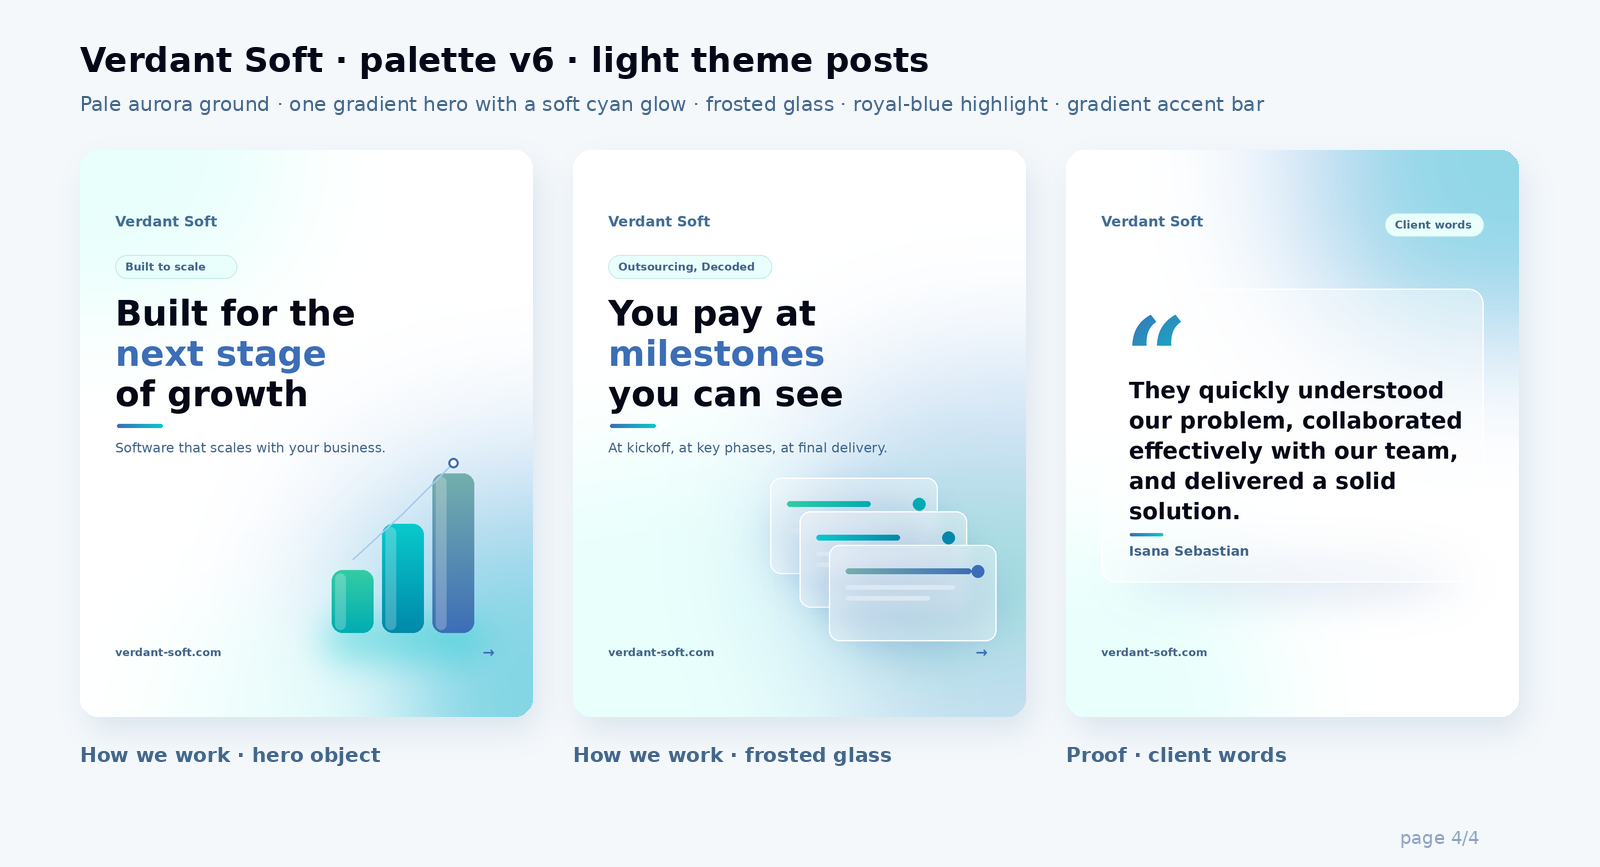
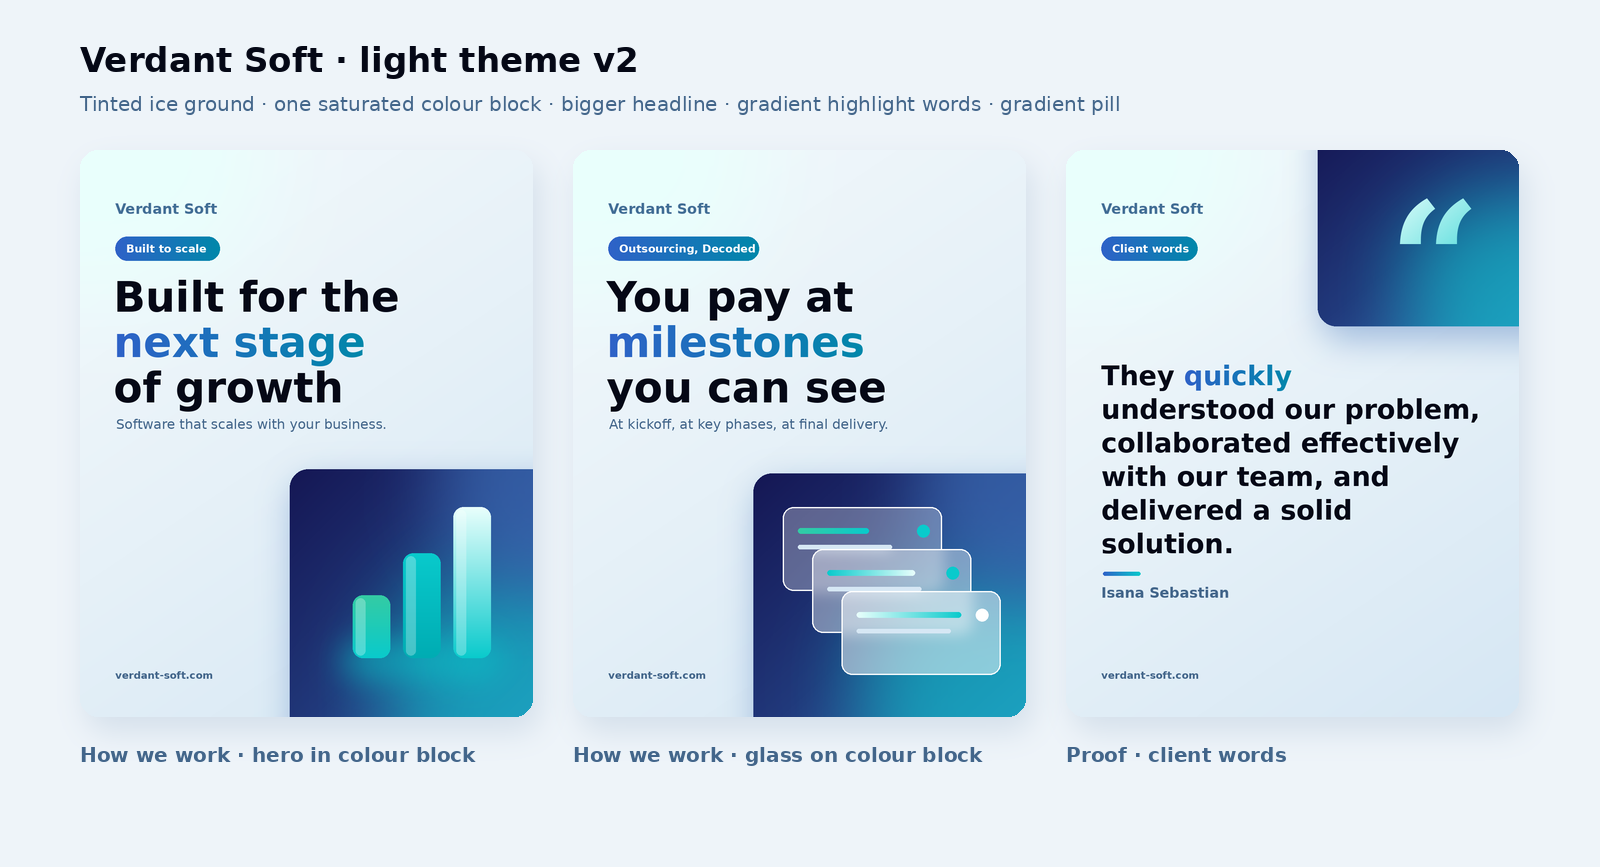
Light theme v2 system: grid, components, 7 templates, rules, renderer
Claude-Session: https://claude.ai/code/session_01Ra6FQW7AHQf4o11khZLXVQ

diff --git a/brand/theme/render_light.py b/brand/theme/render_light.py
@@ -1,0 +1,351 @@
+"""Light theme v2 for Verdant Soft posts: components, templates and reference sheets.
+
+Renders mockups only (DejaVu stands in for the brand typeface). Run from the repo root:
+    python3 brand/theme/render_light.py
+"""
+from PIL import Image, ImageDraw, ImageFont, ImageFilter
+
+OUT = 'brand/theme'
+PW, PH = 1080, 1350                      # post canvas (4:5)
+SX, SY = 84, 110                         # safe margins: sides, top/bottom
+C = dict(abyss='#050816', royal='#3C6EB7', royal_deep='#2F62C8', steel='#42658A', slate='#416D95',
+         sage='#74AFAD', ocean='#0088AA', cyan='#09CACC', mint='#34CCA4', lagoon='#00ACB3',
+         polar='#E9FFFC', ice='#EBF5F7', sky='#A6CAEC', cobalt='#151754', navy2='#21387B', white='#FFFFFF')
+HL = [C['royal_deep'], C['ocean']]       # highlight-word gradient (passes 4:1 on the ice ground)
+LOGO = 'brand/brand-guide/png/verdant-logo-gradient.png'
+
+
+def font(sz, bold=True, serif=False):
+    if serif:
+        return ImageFont.truetype('/usr/share/fonts/truetype/dejavu/DejaVuSerif-Bold.ttf', sz)
+    name = 'DejaVuSans-Bold.ttf' if bold else 'DejaVuSans.ttf'
+    return ImageFont.truetype('/usr/share/fonts/truetype/dejavu/' + name, sz)
+
+
+def rgb(h):
+    h = h.lstrip('#')
+    return tuple(int(h[i:i + 2], 16) for i in (0, 2, 4))
+
+
+def grad(w, h, stops, mode='h'):
+    g = Image.new('RGB', (w, h)); px = g.load(); cols = [rgb(c) for c in stops]; n = len(cols) - 1
+    for x in range(w):
+        for y in range(h):
+            t = {'h': x / w, 'v': y / h, 'd': x / w * .5 + y / h * .5, 'a': x / w * .35 + y / h * .65}[mode]
+            t = max(0, min(.9999, t)); i = min(int(t * n), n - 1); f = t * n - i; a, b = cols[i], cols[i + 1]
+            px[x, y] = tuple(int(a[k] + (b[k] - a[k]) * f) for k in range(3))
+    return g
+
+
+def rmask(w, h, r):
+    m = Image.new('L', (w, h), 0); ImageDraw.Draw(m).rounded_rectangle((0, 0, w - 1, h - 1), radius=r, fill=255)
+    return m
+
+
+def glow(img, box, col, alpha, blur):
+    w, h = img.size; m = Image.new('L', (w, h), 0)
+    ImageDraw.Draw(m).ellipse(box, fill=alpha); m = m.filter(ImageFilter.GaussianBlur(blur))
+    img.paste(Image.new('RGB', (w, h), rgb(col)), (0, 0), m)
+
+
+# ---------- components ----------
+def ground():
+    """Tinted ice ground with a polar glow top-left. Never pure white."""
+    im = grad(PW, PH, ['#F4F9FC', '#E6F1F8', '#D6E7F4'], 'a')
+    glow(im, (-250, -250, 450, 350), C['polar'], 255, 110)
+    return im
+
+
+def logo(im, x=SX, y=SY, h=52):
+    lg = Image.open(LOGO).convert('RGBA'); w = int(lg.width * h / lg.height)
+    lg = lg.resize((w, h), Image.LANCZOS); im.paste(lg, (x, y), lg)
+
+
+def pill(im, x, y, text, size=26):
+    d = ImageDraw.Draw(im); w = d.textbbox((0, 0), text, font=font(size))[2] + 52
+    im.paste(grad(w, 58, HL), (x, y), rmask(w, 58, 29))
+    ImageDraw.Draw(im).text((x + 26, y + 13), text, fill=C['white'], font=font(size))
+    return w
+
+
+def gtext(im, xy, text, fnt, stops=HL):
+    x, y = xy; bb = ImageDraw.Draw(im).textbbox((0, 0), text, font=fnt); w, h = bb[2] + 4, bb[3] + 14
+    m = Image.new('L', (w, h), 0); ImageDraw.Draw(m).text((0, 0), text, fill=255, font=fnt)
+    im.paste(grad(w, h, stops), (x, y), m)
+    return bb[2]
+
+
+def headline(im, x, y, lines, size=100, lead=1.08):
+    """lines: list of lists of (text, highlighted) runs. Returns the y below the block."""
+    f = font(size)
+    for runs in lines:
+        cx = x
+        for text, hl in runs:
+            if hl:
+                cx += gtext(im, (cx, y), text, f)
+            else:
+                d = ImageDraw.Draw(im); d.text((cx, y), text, fill=C['abyss'], font=f)
+                cx += d.textbbox((0, 0), text, font=f)[2]
+        y += int(size * lead)
+    return y
+
+
+def accent(im, x, y, w=110):
+    im.paste(grad(w, 10, [C['royal_deep'], C['cyan']]), (x, y), rmask(w, 10, 5))
+
+
+def sub(im, x, y, text, size=32):
+    ImageDraw.Draw(im).text((x, y), text, fill=C['steel'], font=font(size, bold=False))
+
+
+def footer(im, text='verdant-soft.com', arrow=False):
+    d = ImageDraw.Draw(im); d.text((SX, PH - SY - 4), text, fill=C['steel'], font=font(24))
+    if arrow:
+        d.text((PW - SX - 40, PH - SY - 10), '→', fill=C['royal_deep'], font=font(34))
+
+
+def block(im, box, radius=44, glow_at=(.35, .35, 1.15, 1.2)):
+    """The one saturated colour block per post: cobalt → royal, cyan glow inside, soft royal shadow."""
+    x0, y0, x1, y1 = box; w, h = x1 - x0, y1 - y0
+    blk = grad(w, h, [C['cobalt'], C['navy2'], C['royal']], 'd')
+    gx0, gy0, gx1, gy1 = glow_at
+    glow(blk, (int(w * gx0), int(h * gy0), int(w * gx1), int(h * gy1)), C['cyan'], 150, 90)
+    sh = Image.new('L', im.size, 0)
+    ImageDraw.Draw(sh).rounded_rectangle((x0 + 10, y0 + 30, x1 + 10, y1 + 30), radius=radius, fill=110)
+    im.paste(Image.new('RGB', im.size, rgb(C['royal'])), (0, 0), sh.filter(ImageFilter.GaussianBlur(40)))
+    im.paste(blk, (x0, y0), rmask(w, h, radius))
+
+
+def glass(im, box, r=26, a=.35):
+    x0, y0, x1, y1 = box; w, h = x1 - x0, y1 - y0
+    base = im.crop(box).filter(ImageFilter.GaussianBlur(16))
+    im.paste(Image.blend(base, Image.new('RGB', (w, h), (255, 255, 255)), a), (x0, y0), rmask(w, h, r))
+    ImageDraw.Draw(im).rounded_rectangle(box, radius=r, outline=(255, 255, 255), width=3)
+
+
+def bars(im, bx, by):
+    spec = [(150, 300, 90, 150, [C['mint'], C['cyan']]), (270, 200, 90, 250, [C['cyan'], C['lagoon']]),
+            (390, 90, 90, 360, [C['polar'], C['cyan']])]
+    for x, y, w, h, st in spec:
+        glow(im, (bx + x - 30, by + y + h - 40, bx + x + w + 30, by + y + h + 50), C['cyan'], 140, 35)
+    for x, y, w, h, st in spec:
+        im.paste(grad(w, h, st, 'v'), (bx + x, by + y), rmask(w, h, 24))
+        hl = Image.new('L', (w, h), 0); ImageDraw.Draw(hl).rounded_rectangle((7, 7, w // 3, h - 7), radius=18, fill=70)
+        im.paste(Image.new('RGB', (w, h), (255, 255, 255)), (bx + x, by + y), hl)
+
+
+def glass_stack(im, bx, by):
+    for i, (x, y) in enumerate([(70, 80), (140, 180), (210, 280)]):
+        glass(im, (bx + x, by + y, bx + x + 380, by + y + 200), a=.30 + .1 * i)
+        st = [[C['mint'], C['cyan']], [C['cyan'], C['polar']], [C['polar'], C['cyan']]][i]
+        im.paste(grad(170 + 40 * i, 14, st), (bx + x + 36, by + y + 50), rmask(170 + 40 * i, 14, 7))
+        d = ImageDraw.Draw(im)
+        d.rounded_rectangle((bx + x + 36, by + y + 90, bx + x + 260, by + y + 100), radius=5, fill='#D6E7F4')
+        d.ellipse((bx + x + 320, by + y + 42, bx + x + 350, by + y + 72), fill=C['cyan'] if i < 2 else C['white'])
+
+
+def network(im, cx, cy):
+    pts = [(-150, -110, 16, C['polar']), (140, -140, 16, C['sky']), (150, 120, 16, C['mint']), (-130, 130, 16, C['sage']), (40, -230, 10, C['polar'])]
+    glow(im, (cx - 140, cy - 140, cx + 140, cy + 140), C['cyan'], 160, 50)
+    d = ImageDraw.Draw(im)
+    for dx, dy, r, c in pts:
+        d.line((cx, cy, cx + dx, cy + dy), fill='#9FE3E8', width=4)
+    d.ellipse((cx - 38, cy - 38, cx + 38, cy + 38), fill=C['cyan'])
+    for dx, dy, r, c in pts:
+        d.ellipse((cx + dx - r, cy + dy - r, cx + dx + r, cy + dy + r), fill=c)
+
+
+def quote_mark(im, x, y, size=380, stops=(C['polar'], C['cyan'])):
+    q = Image.new('L', (int(size * .8), int(size * .7)), 0)
+    ImageDraw.Draw(q).text((0, -int(size * .13)), '“', fill=255, font=font(size, serif=True))
+    im.paste(grad(q.width, q.height, list(stops), 'd'), (x, y), q)
+
+
+def list_rows(im, x, y, items, w=912):
+    for i, t in enumerate(items):
+        top = y + i * 150
+        glass(im, (x, top, x + w, top + 124), r=30, a=.55)
+        im.paste(grad(76, 76, HL, 'd'), (x + 26, top + 24), rmask(76, 76, 38))
+        d = ImageDraw.Draw(im)
+        d.text((x + 50, top + 38), str(i + 1), fill=C['white'], font=font(36))
+        d.text((x + 130, top + 40), t, fill=C['abyss'], font=font(40))
+
+
+def page_counter(im, n, total):
+    d = ImageDraw.Draw(im); txt = f'{n:02d} / {total:02d}'
+    d.text((PW - SX - d.textbbox((0, 0), txt, font=font(26))[2], SY + 8), txt, fill=C['steel'], font=font(26))
+
+
+def dots(im, n, total, y=PH - SY + 4):
+    d = ImageDraw.Draw(im); x = PW - SX - total * 26
+    for i in range(total):
+        if i == n - 1:
+            im.paste(grad(40, 12, HL), (x - 14, y), rmask(40, 12, 6)); x += 30
+        else:
+            d.ellipse((x, y, x + 12, y + 12), fill='#B9CDE0'); x += 26
+
+
+def photo_frame(im, box):
+    x0, y0, x1, y1 = box; w, h = x1 - x0, y1 - y0
+    ph = grad(w, h, ['#C9D9E8', '#AFC6DB'], 'd'); d = ImageDraw.Draw(ph)
+    d.ellipse((w // 2 - 90, h // 2 - 170, w // 2 + 90, h // 2 + 10), fill='#93AFC9')
+    d.rounded_rectangle((w // 2 - 180, h // 2 + 40, w // 2 + 180, h + 60), radius=120, fill='#93AFC9')
+    d.text((24, h - 50), 'real photo · news inbox', fill='#F4F9FC', font=font(22, bold=False))
+    im.paste(ph, (x0, y0), rmask(w, h, 36))
+    ImageDraw.Draw(im).rounded_rectangle(box, radius=36, outline=(255, 255, 255), width=8)
+
+
+# ---------- templates ----------
+def t_hero():
+    im = ground(); logo(im); pill(im, SX, 206, 'Built to scale')
+    y = headline(im, 80, 292, [[('Built for the', 0)], [('next stage', 1)], [('of growth', 0)]])
+    accent(im, SX + 4, y + 8); sub(im, SX, y + 36, 'Software that scales with your business.')
+    block(im, (500, 760, 1140, 1410)); bars(im, 500, 760); footer(im); return im
+
+
+def t_glass():
+    im = ground(); logo(im); pill(im, SX, 206, 'Outsourcing, Decoded')
+    y = headline(im, 80, 292, [[('You pay at', 0)], [('milestones', 1)], [('you can see', 0)]])
+    accent(im, SX + 4, y + 8); sub(im, SX, y + 36, 'At kickoff, at key phases, at final delivery.')
+    block(im, (430, 770, 1130, 1410)); glass_stack(im, 430, 770); footer(im); return im
+
+
+def t_quote():
+    im = ground(); block(im, (600, -60, 1200, 420), glow_at=(.33, .33, 1.17, 1.17)); quote_mark(im, 770, 90)
+    logo(im); pill(im, SX, 206, 'Client words')
+    f = font(64); y = 500; d = ImageDraw.Draw(im); d.text((SX, y), 'They', fill=C['abyss'], font=f)
+    gtext(im, (SX + d.textbbox((0, 0), 'They ', font=f)[2], y), 'quickly', f)
+    for i, l in enumerate(['understood our problem,', 'collaborated effectively', 'with our team, and', 'delivered a solid', 'solution.']):
+        ImageDraw.Draw(im).text((SX, y + 80 * (i + 1)), l, fill=C['abyss'], font=f)
+    accent(im, SX + 4, y + 80 * 6 + 24, 90)
+    ImageDraw.Draw(im).text((SX, y + 80 * 6 + 54), 'Isana Sebastian', fill=C['steel'], font=font(34))
+    footer(im); return im
+
+
+def t_list():
+    im = ground(); block(im, (-60, 1120, 1140, 1420), radius=56, glow_at=(.45, .1, 1.2, 1.6))
+    logo(im); pill(im, SX, 206, 'Wireframe → Production')
+    y = headline(im, 80, 292, [[('Before the first', 0)], [('line of code', 1)]], size=92)
+    accent(im, SX + 4, y + 8); sub(im, SX, y + 36, 'Our UI/UX process starts here.')
+    list_rows(im, SX, 640, ['Research & discovery', 'User personas', 'Architecture & wireframing'])
+    d = ImageDraw.Draw(im); d.text((SX, PH - SY - 4), 'verdant-soft.com', fill=C['white'], font=font(24)); return im
+
+
+def t_cover():
+    im = ground(); logo(im); pill(im, SX, 206, 'Outsourcing, Decoded · 03')
+    y = headline(im, 80, 292, [[('Can I hire you', 0)], [('for just one', 0)], [('service?', 1)]], size=96)
+    accent(im, SX + 4, y + 8); sub(im, SX, y + 36, 'Swipe for the short answer.')
+    block(im, (560, 820, 1140, 1410)); network(im, 860, 1060)
+    footer(im); dots(im, 1, 5); return im
+
+
+def t_slide():
+    im = ground(); logo(im); page_counter(im, 2, 5)
+    y = headline(im, 80, 250, [[('Yes. ', 0), ('Pick one.', 1)]], size=88)
+    sub(im, SX, y + 10, 'Each service works on its own or together.')
+    block(im, (SX, 520, PW - SX, 1130), radius=40, glow_at=(.5, .4, 1.3, 1.4))
+    for i, s in enumerate(['Custom Software Development', 'Cloud & DevOps', 'IT Team Outsourcing', 'UI/UX Design']):
+        top = 580 + i * 130; glass(im, (SX + 50, top, PW - SX - 50, top + 100), r=50, a=.18)
+        d = ImageDraw.Draw(im); d.ellipse((SX + 80, top + 36, SX + 108, top + 64), fill=C['cyan'])
+        d.text((SX + 136, top + 26), s, fill=C['white'], font=font(38))
+    footer(im); dots(im, 2, 5); return im
+
+
+def t_people():
+    im = ground(); block(im, (480, 560, 1140, 1410), glow_at=(.2, .5, 1.1, 1.3)); photo_frame(im, (560, 640, 1000, 1180))
+    logo(im); pill(im, SX, 206, 'Grow with us')
+    y = headline(im, 80, 292, [[('Welcome', 0)], [('to the team', 1)]], size=100)
+    accent(im, SX + 4, y + 8)
+    d = ImageDraw.Draw(im); d.text((SX, y + 40), '[Name]', fill=C['abyss'], font=font(40))
+    d.text((SX, y + 92), '[Role]', fill=C['steel'], font=font(30, bold=False))
+    footer(im); return im
+
+
+TEMPLATES = [('L-HERO', 'Hero in block', 'How we work · Brand world', t_hero),
+             ('L-GLASS', 'Glass in block', 'How we work', t_glass),
+             ('L-QUOTE', 'Client words', 'Proof', t_quote),
+             ('L-LIST', 'Steps list', 'How we work · Insight', t_list),
+             ('L-COVER', 'Carousel cover', 'Series, v2 carousels', t_cover),
+             ('L-SLIDE', 'Carousel slide', 'Series, v2 carousels', t_slide),
+             ('L-PEOPLE', 'People', 'Grow with us (inbox photo)', t_people)]
+
+
+def sheet_templates():
+    renders = [(tid, name, use, fn()) for tid, name, use, fn in TEMPLATES]
+    W = 1600; s = .30; pw, ph = int(PW * s), int(PH * s); gap = (W - 160 - 4 * pw) // 3
+    page = Image.new('RGB', (W, 170 + 2 * (ph + 120) + 40), '#EEF4F9'); d = ImageDraw.Draw(page)
+    d.text((80, 40), 'Verdant Soft · light theme v2 · templates', fill=C['abyss'], font=font(34))
+    d.text((80, 92), 'One grid, one component kit, seven layouts. Every post uses exactly one colour block.', fill=C['steel'], font=font(20, bold=False))
+    cells = renders + [None]
+    for i, cell in enumerate(cells):
+        col, row = i % 4, i // 4; x = 80 + col * (pw + gap); y = 150 + row * (ph + 120)
+        if cell is None:
+            for j, (k, c) in enumerate([('Abyss', 'abyss'), ('Royal', 'royal'), ('Ocean', 'ocean'), ('Cyan', 'cyan'), ('Mint', 'mint'), ('Polar', 'polar')]):
+                yy = y + j * (ph // 6)
+                d.rounded_rectangle((x, yy, x + pw, yy + ph // 6 - 8), radius=12, fill=C[c], outline='#C9D6E2')
+                d.text((x + 16, yy + 14), f'{k} {C[c]}', fill=C['white'] if c in ('abyss', 'royal', 'ocean') else C['abyss'], font=font(18))
+            d.text((x, y + ph + 16), 'Theme colours', fill=C['steel'], font=font(20)); continue
+        tid, name, use, im = cell
+        sh = Image.new('L', page.size, 0)
+        ImageDraw.Draw(sh).rounded_rectangle((x + 5, y + 12, x + pw + 5, y + ph + 12), radius=18, fill=80)
+        page.paste(Image.new('RGB', page.size, rgb('#9DB4CC')), (0, 0), sh.filter(ImageFilter.GaussianBlur(12)))
+        page.paste(im.resize((pw, ph), Image.LANCZOS), (x, y), rmask(pw, ph, 16))
+        d = ImageDraw.Draw(page)
+        d.text((x, y + ph + 14), f'{tid} · {name}', fill=C['abyss'], font=font(19))
+        d.text((x, y + ph + 42), use, fill=C['steel'], font=font(17, bold=False))
+    page.save(f'{OUT}/light-2-templates.png', optimize=True)
+    return renders
+
+
+def sheet_anatomy(hero):
+    W = 1600; s = .56; pw, ph = int(PW * s), int(PH * s)
+    page = Image.new('RGB', (W, ph + 220), '#EEF4F9'); d = ImageDraw.Draw(page)
+    d.text((80, 40), 'Verdant Soft · light theme v2 · anatomy', fill=C['abyss'], font=font(34))
+    d.text((80, 92), 'Grid at 1080 × 1350. Sides 84 px, top and bottom 110 px. Text block top-left, colour block lower-right.', fill=C['steel'], font=font(20, bold=False))
+    x0, y0 = 80, 150
+    page.paste(hero.resize((pw, ph), Image.LANCZOS), (x0, y0), rmask(pw, ph, 16))
+    ov = Image.new('RGBA', page.size, (0, 0, 0, 0)); od = ImageDraw.Draw(ov)
+    m = lambda v: int(v * s)
+    od.rectangle((x0 + m(SX), y0 + m(SY), x0 + m(PW - SX), y0 + m(PH - SY)), outline=(232, 62, 140, 200), width=2)
+    page.paste(ov, (0, 0), ov); d = ImageDraw.Draw(page)
+    notes = [(SY + 26, '1  Logo · real file, 52 px tall'), (235, '2  Label pill · gradient royal → ocean, white 26 px'),
+             (350, '3  Headline · 100 px bold, abyss #050816'), (440, '    highlight words · gradient #2F62C8 → #0088AA'),
+             (640, '4  Accent bar · 110 × 10, royal → cyan'), (690, '5  Subline · 32 px regular, steel #42658A'),
+             (1000, '6  Colour block · cobalt → royal + cyan glow, r 44'),
+             (PH - SY + 8, '7  Footer · verdant-soft.com, 24 px, steel')]
+    tx = x0 + pw + 50
+    for yy, txt in notes:
+        py = y0 + m(yy)
+        d.line((x0 + pw - 6, py, tx - 10, py), fill='#E83E8C', width=2); d.ellipse((x0 + pw - 12, py - 6, x0 + pw, py + 6), fill='#E83E8C')
+        d.text((tx, py - 13), txt, fill=C['abyss'], font=font(21))
+    d.text((tx, y0 + ph - 10), 'Pink frame = safe area: logo and text never cross it.', fill=C['steel'], font=font(18, bold=False))
+    page.save(f'{OUT}/light-1-anatomy.png', optimize=True)
+
+
+def sheet_rules():
+    W = 1600; page = Image.new('RGB', (W, 1060), '#EEF4F9'); d = ImageDraw.Draw(page)
+    d.text((80, 40), 'Verdant Soft · light theme v2 · rules', fill=C['abyss'], font=font(34))
+    do = ['Tinted ice ground, never flat white', 'Exactly one saturated colour block per post',
+          'One hero object, inside the block', '1–3 highlight words, gradient royal → ocean',
+          'Headline 88–100 px, max 3 lines, sentence case', 'Label pill names the series or topic',
+          'Glass only on or near the block, never stacked > 3', 'Real people only from real photos (inbox)']
+    dont = ['Cyan, mint, sage or polar as text on light', 'Two colour blocks, or a block with no job',
+            'Gradient text in body copy or subline', 'Centred headline over the hero',
+            'Stock people, robots, generic tech icons', 'Yellow, lime, orange, coral, or green as brand',
+            'Text inside the block smaller than 36 px', 'Busy effects: bokeh, sparkles, lens flares']
+    for col, (title, items, c) in enumerate([('Do', do, C['royal_deep']), ("Don't", dont, '#B4234A')]):
+        x = 80 + col * 740
+        d.rounded_rectangle((x, 120, x + 700, 1000), radius=28, fill='#FFFFFF', outline='#D6E2EC', width=2)
+        d.text((x + 36, 150), title, fill=c, font=font(34))
+        for i, t in enumerate(items):
+            yy = 230 + i * 92
+            d.ellipse((x + 36, yy + 6, x + 60, yy + 30), fill=c)
+            d.text((x + 80, yy), t, fill=C['abyss'], font=font(23, bold=False))
+    page.save(f'{OUT}/light-3-rules.png', optimize=True)
+
+
+if __name__ == '__main__':
+    renders = sheet_templates()
+    sheet_anatomy(renders[0][3])
+    sheet_rules()
+    print('rendered', [r[0] for r in renders])
